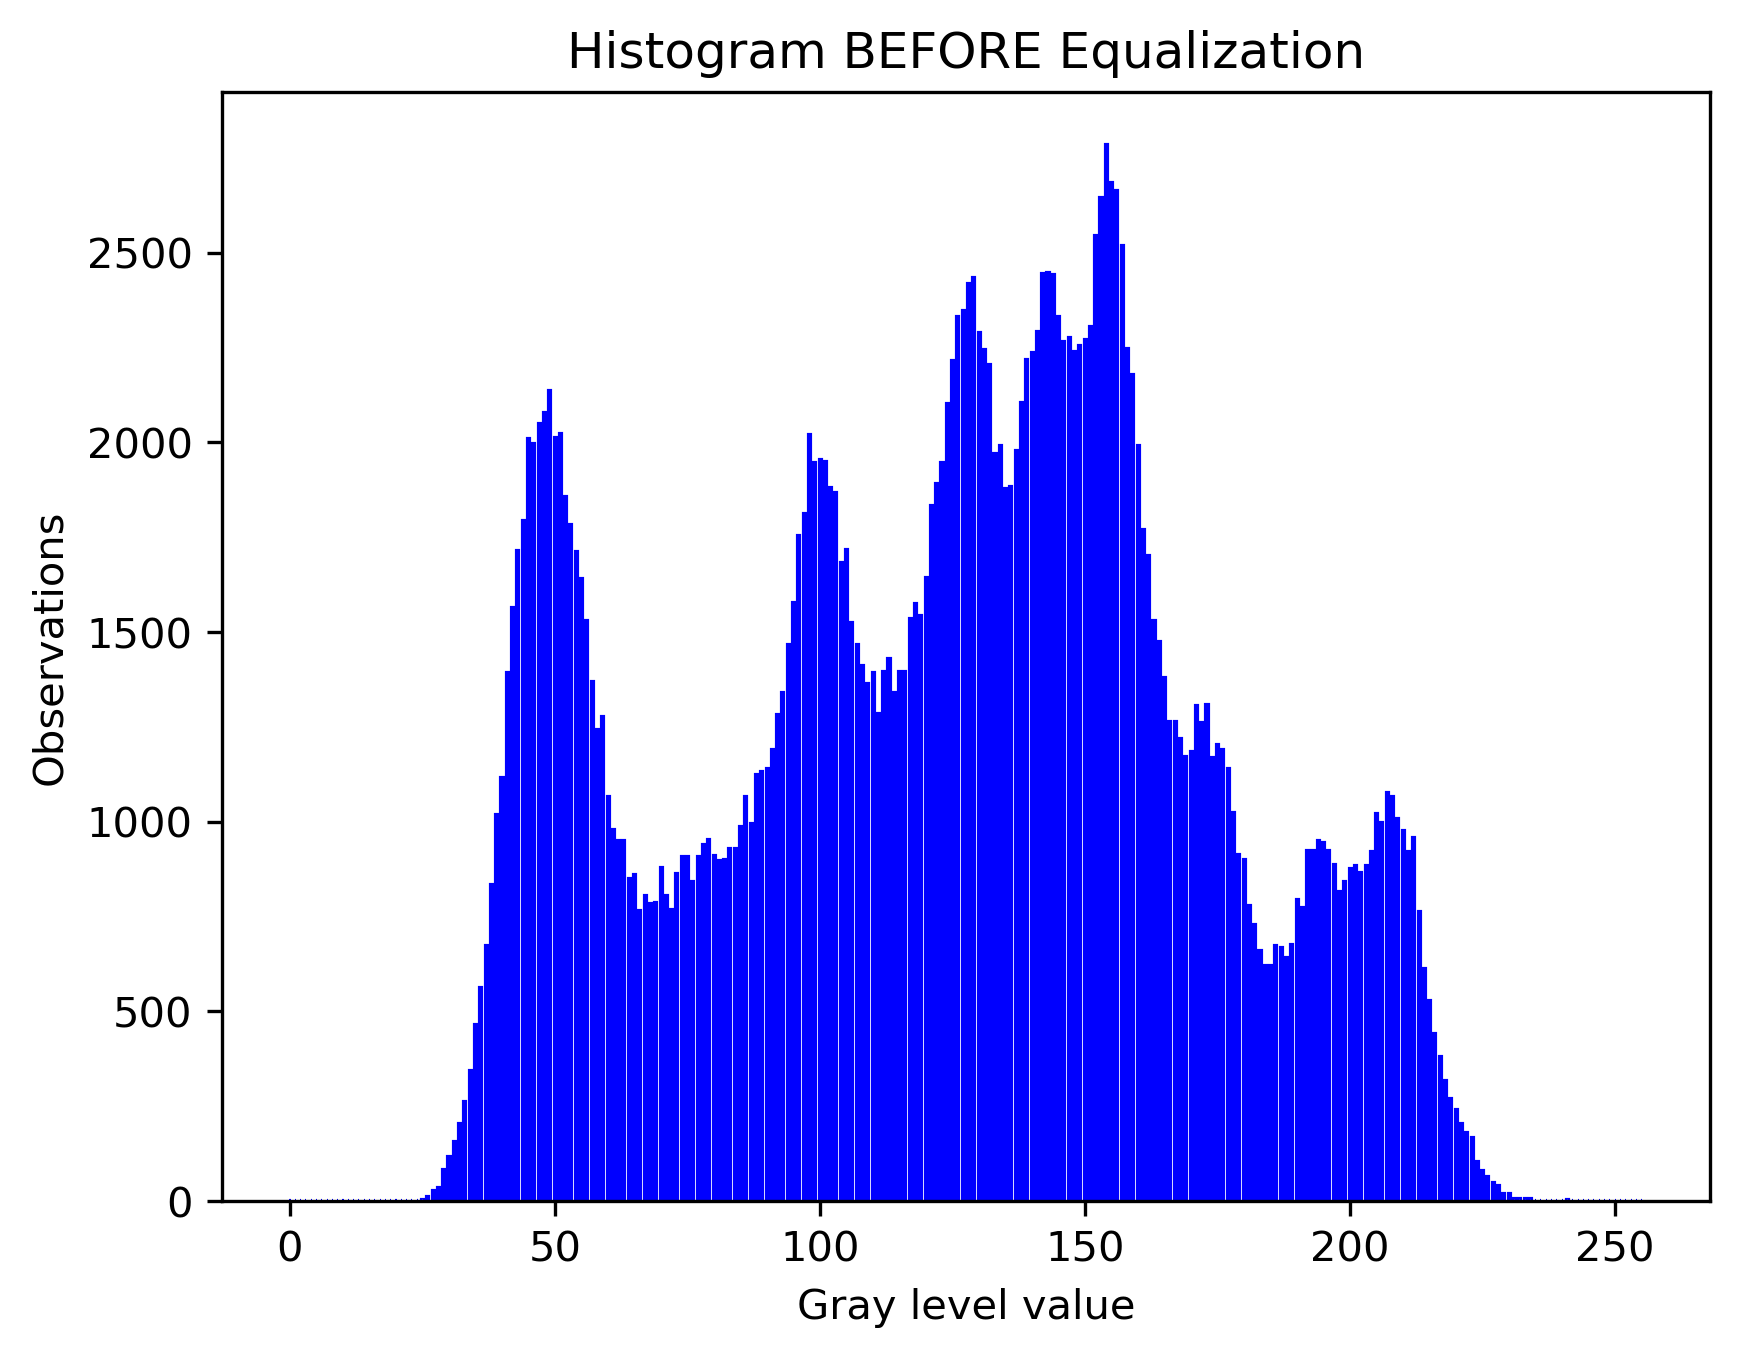
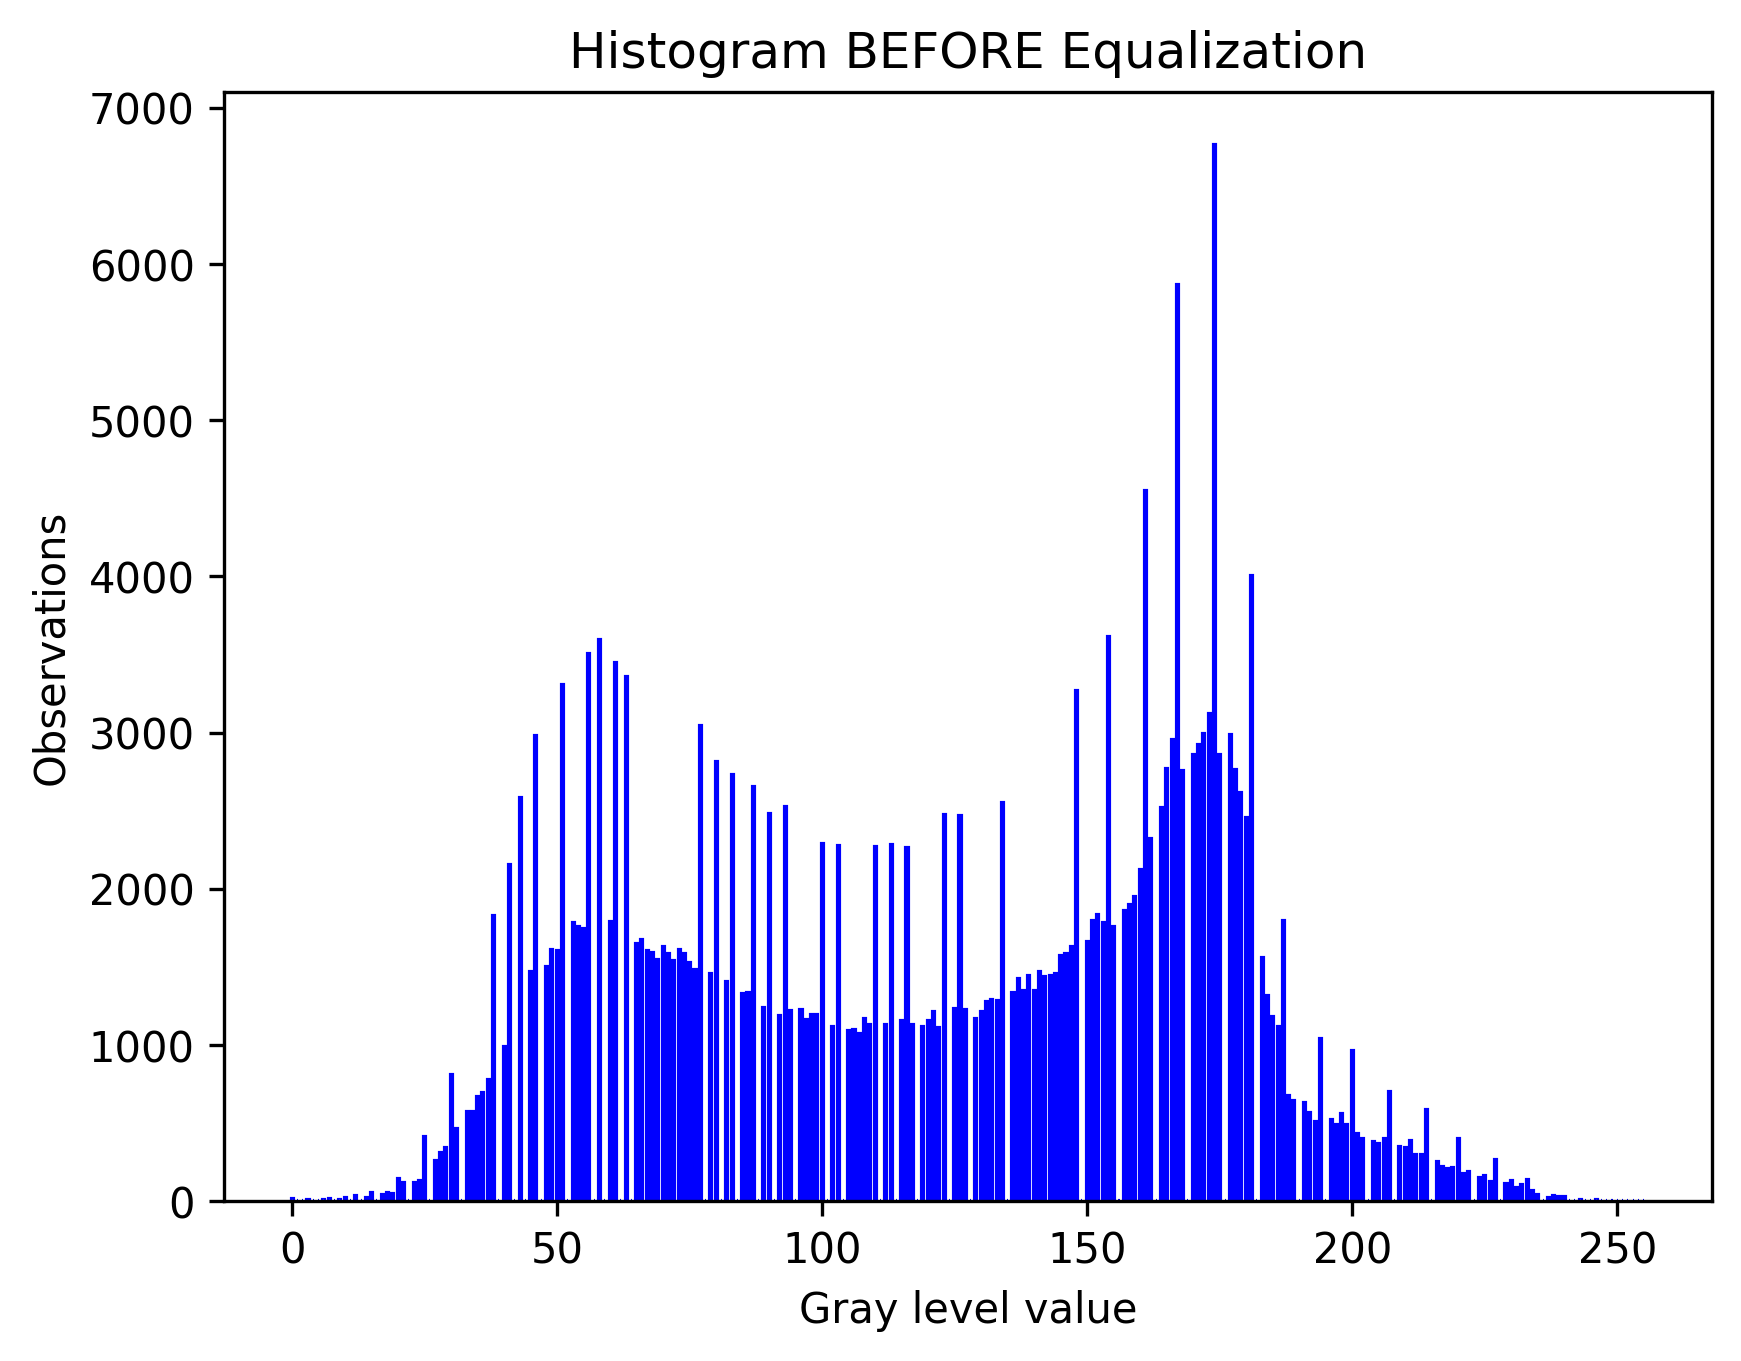
fix: update constant values to run program with correct raw image input

diff --git a/Intro-to-Image-Processing/HWs/02/histogram_equalization.py b/Intro-to-Image-Processing/HWs/02/histogram_equalization.py
@@ -31,8 +31,8 @@ from PIL import Image
 
 # Constants
 RGB_WEIGHTS = [0.299, 0.587, 0.114]
-IMG_TITLE = "lena.png"
-OUTPUT_TITLE = "lena_converted.png"
+IMG_TITLE = "bear.jpg"
+OUTPUT_TITLE = "bear.jpg"
 
 
 def color_to_gray(img_title, output_title):
@@ -156,4 +156,4 @@ if __name__ == "__main__":
     )
 
     # Apply mapping to produce equalized image
-    equalized_img = apply_mapping(pixels, mapping, "lena_equalized.png")
+    equalized_img = apply_mapping(pixels, mapping, "bear_equalized.png")